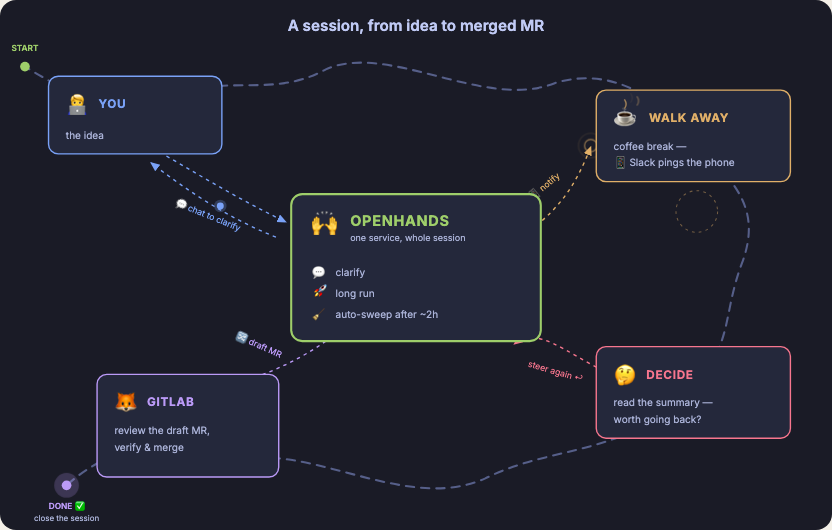
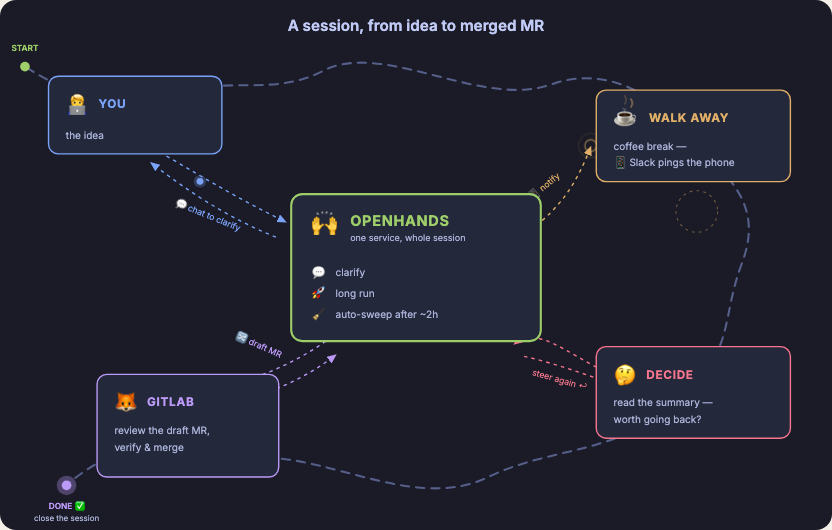
blog(storyboard): traveler in front, loop arrows on steer and GitLab spokes
- Traveler dot renders last in the SVG so it passes in front of the node
  cards instead of behind them
- Steer-again spoke is now a two-arrow loop (DECIDE -> hub and back),
  matching the chat loop; label nudged clear of the return arrow
- GitLab spoke gains a return arrow back to OpenHands, making the draft-MR
  exchange a loop as well
- Refresh review screenshots

diff --git a/src/features/blog/components/SessionStoryboard.tsx b/src/features/blog/components/SessionStoryboard.tsx
@@ -64,8 +64,12 @@ const TRAVELER_PATH =
 const CHAT_TO_HUB = 'M 240 225 C 300 260, 350 290, 412 320'
 const CHAT_TO_YOU = 'M 398 342 C 330 315, 270 275, 218 235'
 const NOTIFY = 'M 782 318 C 820 285, 838 248, 852 212'
+// Steer-again is a loop like the chat spoke: out to the hub and back.
 const STEER = 'M 880 540 C 810 505, 775 470, 742 496'
+const STEER_RETURN = 'M 756 514 C 802 524, 858 545, 902 560'
+// GitLab exchange: the hub pushes the draft MR down; the merge comes back up.
 const DRAFT_MR = 'M 470 492 C 430 520, 395 535, 348 552'
+const DRAFT_MR_RETURN = 'M 368 572 C 410 558, 448 540, 484 512'
 
 const NODE_TEXT = '#a9b1d6'
 
@@ -133,18 +137,8 @@ export default function SessionStoryboard({ ariaLabel }: SessionStoryboardProps)
           opacity={0.45}
         />
 
-        {/* Traveler acting out the day. SMIL follows the composite path
-            natively and is rendered only when motion is allowed. */}
-        {!reducedMotion && (
-          <g>
-            <circle r={9} fill="#7aa2f7" opacity={0.25}>
-              <animateMotion dur="22s" repeatCount="indefinite" rotate="0" calcMode="paced" path={TRAVELER_PATH} />
-            </circle>
-            <circle r={5} fill="#7aa2f7">
-              <animateMotion dur="22s" repeatCount="indefinite" rotate="0" calcMode="paced" path={TRAVELER_PATH} />
-            </circle>
-          </g>
-        )}
+        {/* Traveler is rendered at the very end of the SVG so it passes in
+            front of the node cards — see below. */}
 
         {/* Spokes */}
         <motion.g
@@ -220,13 +214,21 @@ export default function SessionStoryboard({ ariaLabel }: SessionStoryboardProps)
             strokeDasharray="5 6"
             markerEnd="url(#spoke-arrow)"
           />
+          <path
+            d={STEER_RETURN}
+            fill="none"
+            stroke="#f7768e"
+            strokeWidth={2}
+            strokeDasharray="5 6"
+            markerEnd="url(#spoke-arrow)"
+          />
           <text
-            x={800}
-            y={540}
+            x={806}
+            y={552}
             textAnchor="middle"
             fontSize={12.5}
             fill="#f7768e"
-            transform="rotate(16 800 540)"
+            transform="rotate(16 806 552)"
           >
             steer again ↩
           </text>
@@ -235,6 +237,14 @@ export default function SessionStoryboard({ ariaLabel }: SessionStoryboardProps)
         <motion.g variants={cardVariants}>
           <path
             d={DRAFT_MR}
+            fill="none"
+            stroke="#bb9af7"
+            strokeWidth={2}
+            strokeDasharray="5 6"
+            markerEnd="url(#spoke-arrow)"
+          />
+          <path
+            d={DRAFT_MR_RETURN}
             fill="none"
             stroke="#bb9af7"
             strokeWidth={2}
@@ -399,6 +409,20 @@ export default function SessionStoryboard({ ariaLabel }: SessionStoryboardProps)
             verify &amp; merge
           </text>
         </motion.g>
+
+        {/* Traveler acting out the day. SMIL follows the composite path
+            natively; drawn last so the dot passes in front of the node
+            cards. Rendered only when motion is allowed. */}
+        {!reducedMotion && (
+          <g>
+            <circle r={9} fill="#7aa2f7" opacity={0.25}>
+              <animateMotion dur="22s" repeatCount="indefinite" rotate="0" calcMode="paced" path={TRAVELER_PATH} />
+            </circle>
+            <circle r={5} fill="#7aa2f7">
+              <animateMotion dur="22s" repeatCount="indefinite" rotate="0" calcMode="paced" path={TRAVELER_PATH} />
+            </circle>
+          </g>
+        )}
       </svg>
     </motion.div>
   )
